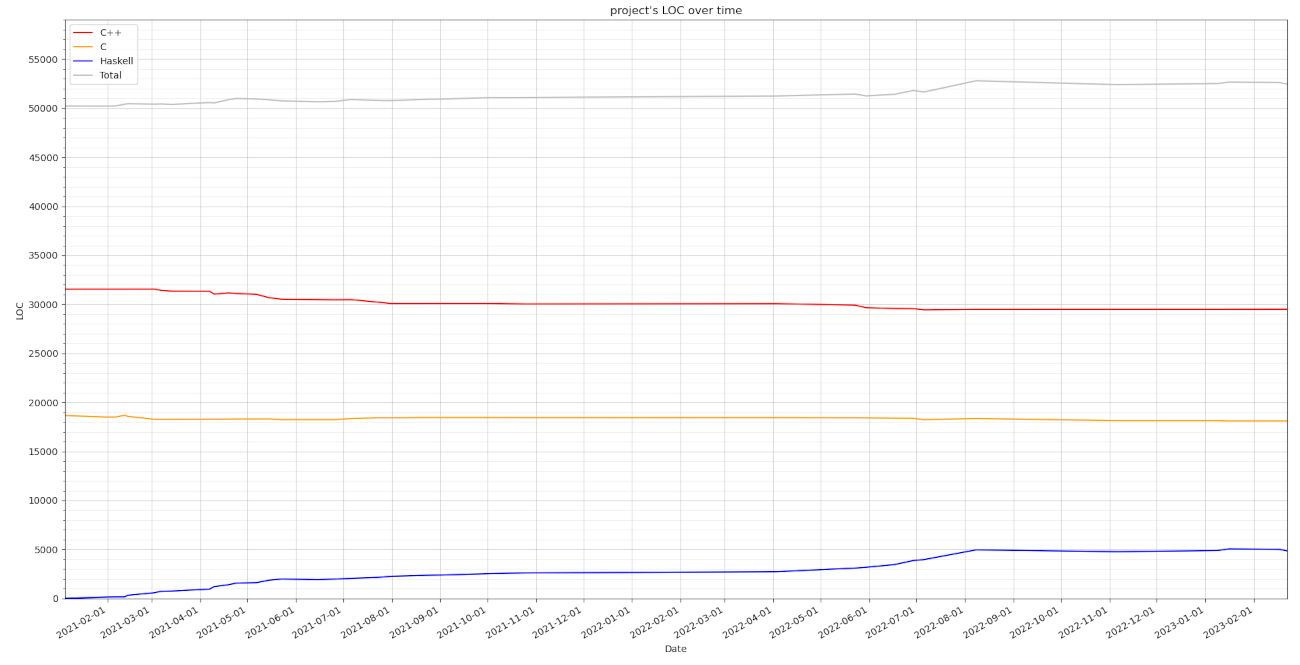
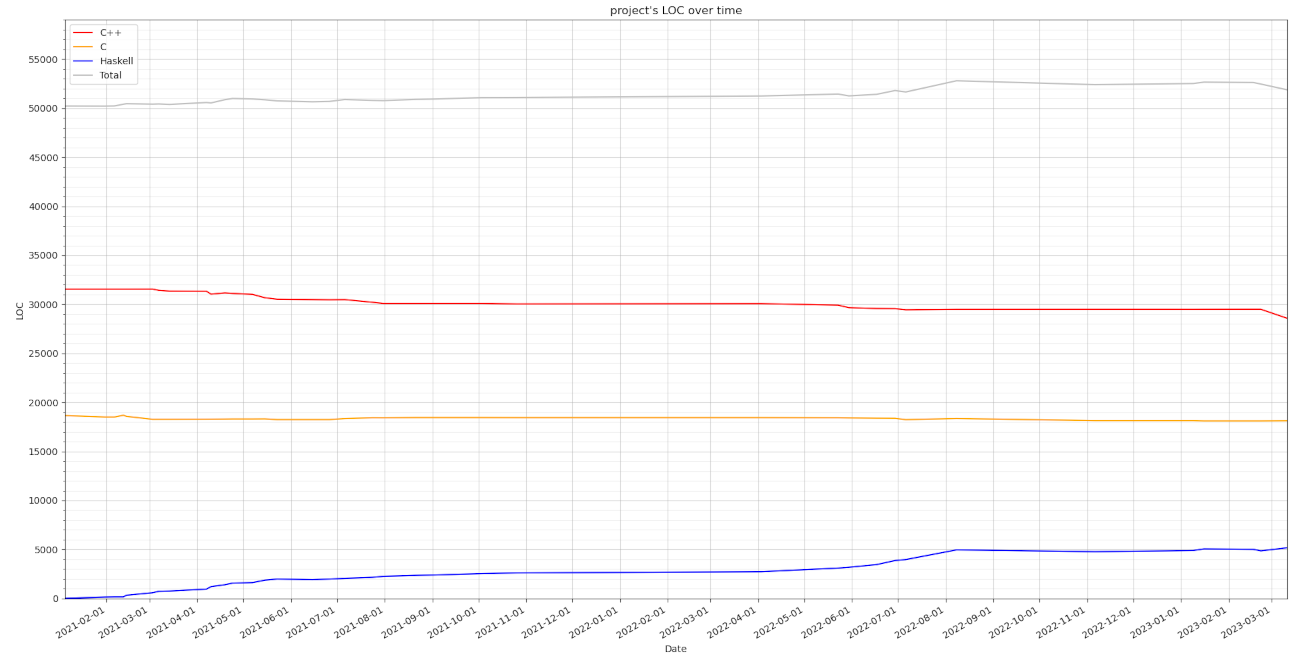
Updating code stats
Notice the drop of LOC for C++: all this code has been moved to Haskell (some
*small* part of it may be in FFI which is not included in Haskell's LOC).

diff --git a/code_stats.py b/code_stats.py
@@ -69,7 +69,8 @@ arr = np.array((
     ["2023-01-16",     29489,     18112,      5058],
     ["2023-02-17",     29494,     18112,      5014],
     ["2023-02-18",     29494,     18112,      4987],
-    ["2023-02-22",     29494,     18112,      4857]
+    ["2023-02-22",     29494,     18112,      4857],
+    ["2023-03-11",     28583,     18127,      5170]
 ))
 
 
